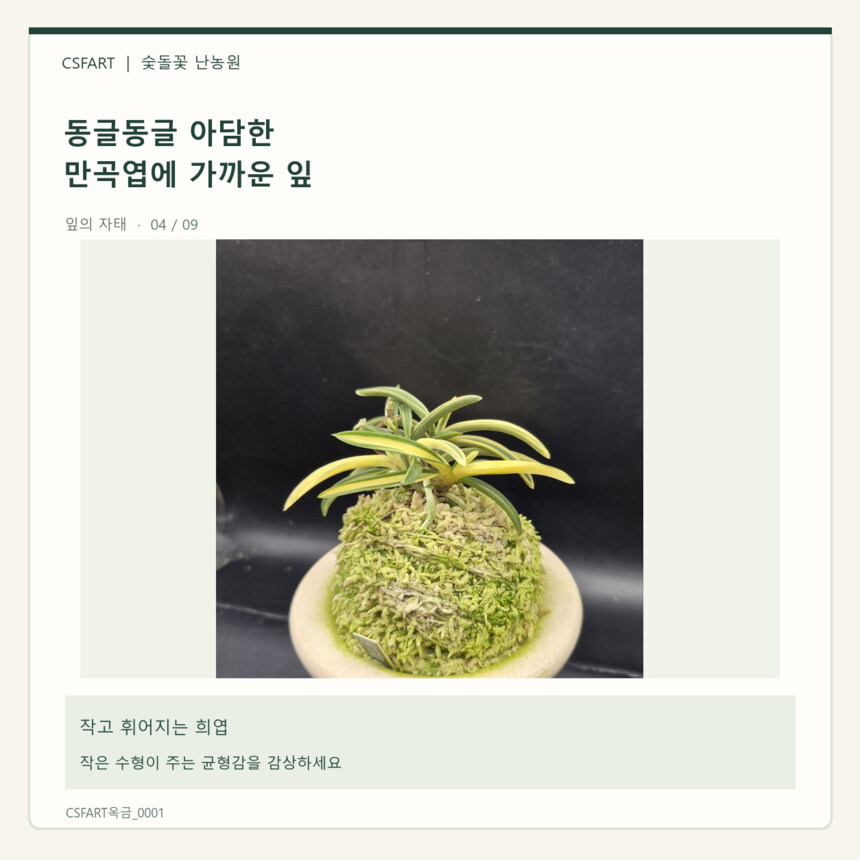
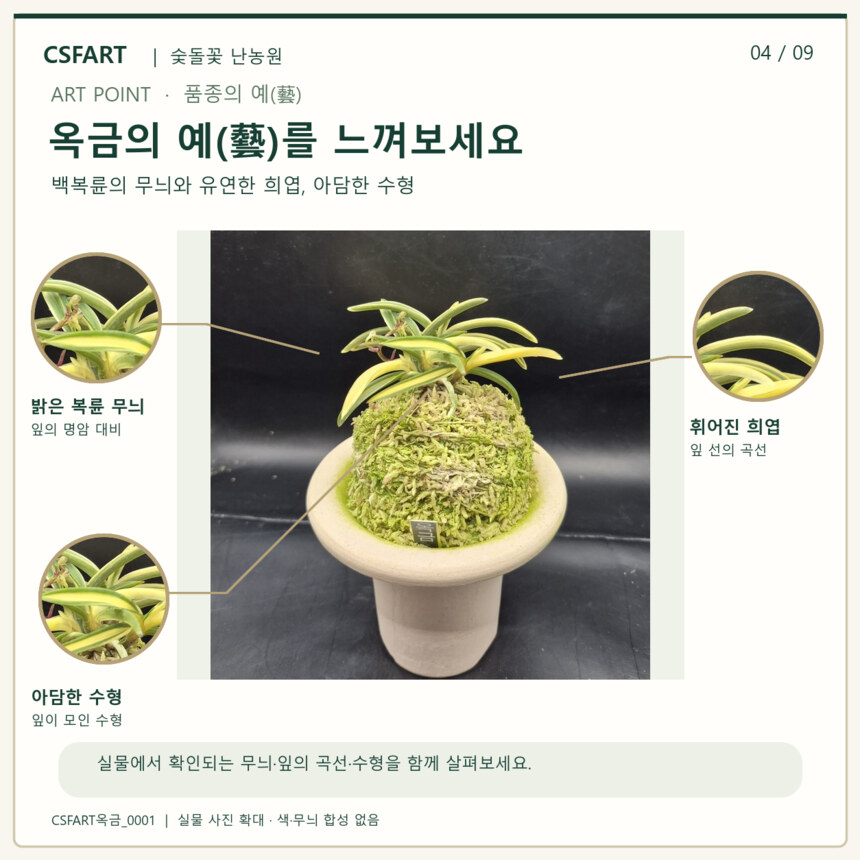
Refine Okgeum detail art and connect Naver purchase

diff --git a/product/okgeum-0001.html b/product/okgeum-0001.html
@@ -1,1 +1,1 @@
-<!doctype html><html lang="ko"><head><meta charset="utf-8"><meta name="viewport" content="width=device-width,initial-scale=1"><meta name="robots" content="noindex,nofollow,noarchive"><title>옥금(玉錦) · CSFART 상품 도감</title><link rel="stylesheet" href="../assets/site.css"><link rel="stylesheet" href="../assets/okgeum.css"></head><body><header><div class="brandbar"><a class="brand" href="../index.html"><img src="../assets/logo.png" alt="CSFART"><span><b>CSFART</b><small>숯돌꽃 난농원</small></span></a><span class="private">CSFART 상품 안내</span></div><nav aria-label="품종 분류"><a href="../category/plain.html">무지</a><a href="../category/stripe.html">호·중반</a><a href="../category/margin.html" aria-current="page">복륜</a><a href="../category/special.html">특예</a><a href="../category/pattern.html">호반</a><a href="../category/flower.html">화물</a><a href="../category/beginner.html">입문·기타란</a><a href="../category/supplies.html">자재</a></nav><div class="swipe-hint" aria-hidden="true">← 메뉴를 좌우로 밀어보세요 →</div></header><main><section class="detail ok-gallery"><div class="detail-heading"><div class="eyebrow">CSFART ORCHID COLLECTION</div><h1>옥금(玉錦) 풍란 · 부귀란</h1><p class="sub">서출도 계열 · 소형 희엽 · 백복륜</p><p class="price">350,000원</p><p class="muted">CSFART옥금_0001 · 복륜 · 실제 판매 개체</p></div><h2>실제 판매 개체 사진</h2><div class="real-first"><a href="../images/okgeum/actual_01.jpg" target="_blank" rel="noopener"><img src="../images/okgeum/actual_01.jpg" alt="옥금 실제 판매 개체 1"></a><a href="../images/okgeum/actual_02.jpg" target="_blank" rel="noopener"><img src="../images/okgeum/actual_02.jpg" alt="옥금 실제 판매 개체 2"></a><a href="../images/okgeum/actual_03.jpg" target="_blank" rel="noopener"><img src="../images/okgeum/actual_03.jpg" alt="옥금 실제 판매 개체 3"></a></div><h2>옥금 상세 설명 9장</h2><section class="guide"><figure><a href="../images/okgeum/guide_01.jpg" target="_blank" rel="noopener"><img src="../images/okgeum/guide_01.jpg" loading="lazy" alt="옥금 설명 이미지 01"></a><figcaption>설명 이미지 01/09 · 판매 개체 실물사진 활용</figcaption></figure><figure><a href="../images/okgeum/guide_02.jpg" target="_blank" rel="noopener"><img src="../images/okgeum/guide_02.jpg" loading="lazy" alt="옥금 설명 이미지 02"></a><figcaption>설명 이미지 02/09 · 판매 개체 실물사진 활용</figcaption></figure><figure class="interleave"><div class="photo-label">실제 판매 개체 사진 04</div><a href="../images/okgeum/actual_04.jpg" target="_blank" rel="noopener"><img src="../images/okgeum/actual_04.jpg" loading="lazy" alt="옥금 추가 실물 사진"></a></figure><figure><a href="../images/okgeum/guide_03.jpg" target="_blank" rel="noopener"><img src="../images/okgeum/guide_03.jpg" loading="lazy" alt="옥금 설명 이미지 03"></a><figcaption>설명 이미지 03/09 · 판매 개체 실물사진 활용</figcaption></figure><figure><a href="../images/okgeum/guide_04.jpg" target="_blank" rel="noopener"><img src="../images/okgeum/guide_04.jpg" loading="lazy" alt="옥금 설명 이미지 04"></a><figcaption>설명 이미지 04/09 · 판매 개체 실물사진 활용</figcaption></figure><figure class="interleave"><div class="photo-label">실제 판매 개체 사진 05</div><a href="../images/okgeum/actual_05.jpg" target="_blank" rel="noopener"><img src="../images/okgeum/actual_05.jpg" loading="lazy" alt="옥금 추가 실물 사진"></a></figure><figure><a href="../images/okgeum/guide_05.jpg" target="_blank" rel="noopener"><img src="../images/okgeum/guide_05.jpg" loading="lazy" alt="옥금 설명 이미지 05"></a><figcaption>설명 이미지 05/09 · 판매 개체 실물사진 활용</figcaption></figure><figure><a href="../images/okgeum/guide_06.jpg" target="_blank" rel="noopener"><img src="../images/okgeum/guide_06.jpg" loading="lazy" alt="옥금 설명 이미지 06"></a><figcaption>설명 이미지 06/09 · 판매 개체 실물사진 활용</figcaption></figure><figure class="interleave"><div class="photo-label">실제 판매 개체 사진 06</div><a href="../images/okgeum/actual_06.jpg" target="_blank" rel="noopener"><img src="../images/okgeum/actual_06.jpg" loading="lazy" alt="옥금 추가 실물 사진"></a></figure><figure><a href="../images/okgeum/guide_07.jpg" target="_blank" rel="noopener"><img src="../images/okgeum/guide_07.jpg" loading="lazy" alt="옥금 설명 이미지 07"></a><figcaption>설명 이미지 07/09 · 판매 개체 실물사진 활용</figcaption></figure><figure><a href="../images/okgeum/guide_08.jpg" target="_blank" rel="noopener"><img src="../images/okgeum/guide_08.jpg" loading="lazy" alt="옥금 설명 이미지 08"></a><figcaption>설명 이미지 08/09 · 판매 개체 실물사진 활용</figcaption></figure><figure class="interleave"><div class="photo-label">실제 판매 개체 사진 07</div><a href="../images/okgeum/actual_07.jpg" target="_blank" rel="noopener"><img src="../images/okgeum/actual_07.jpg" loading="lazy" alt="옥금 추가 실물 사진"></a></figure><figure><a href="../images/okgeum/guide_09.jpg" target="_blank" rel="noopener"><img src="../images/okgeum/guide_09.jpg" loading="lazy" alt="옥금 설명 이미지 09"></a><figcaption>설명 이미지 09/09 · 판매 개체 실물사진 활용</figcaption></figure><figure class="interleave"><div class="photo-label">추가 실제사진 08</div><a href="../images/okgeum/actual_08.jpg" target="_blank" rel="noopener"><img src="../images/okgeum/actual_08.jpg" loading="lazy" alt="옥금 추가 사진"></a></figure><figure class="interleave"><div class="photo-label">추가 실제사진 09</div><a href="../images/okgeum/actual_09.jpg" target="_blank" rel="noopener"><img src="../images/okgeum/actual_09.jpg" loading="lazy" alt="옥금 추가 사진"></a></figure></section><section class="buy"><h2>판매가 350,000원</h2><p class="muted">옥금의 스마트스토어 상품별 구매 주소가 아직 확인되지 않았습니다.</p><span class="ok-disabled" aria-disabled="true">네이버 구매 링크 확인 중</span><p class="muted">다른 상품으로 잘못 연결하지 않습니다.</p></section></section></main><footer>CSFART · 숯돌꽃 난농원 · 상품 도감</footer></body></html>
+<!doctype html><html lang="ko"><head><meta charset="utf-8"><meta name="viewport" content="width=device-width,initial-scale=1"><meta name="robots" content="noindex,nofollow,noarchive"><title>옥금(玉錦) · CSFART 상품 도감</title><link rel="stylesheet" href="../assets/site.css"><link rel="stylesheet" href="../assets/okgeum.css"></head><body><header><div class="brandbar"><a class="brand" href="../index.html"><img src="../assets/logo.png" alt="CSFART"><span><b>CSFART</b><small>숯돌꽃 난농원</small></span></a><span class="private">CSFART 상품 안내</span></div><nav aria-label="품종 분류"><a href="../category/plain.html">무지</a><a href="../category/stripe.html">호·중반</a><a href="../category/margin.html" aria-current="page">복륜</a><a href="../category/special.html">특예</a><a href="../category/pattern.html">호반</a><a href="../category/flower.html">화물</a><a href="../category/beginner.html">입문·기타란</a><a href="../category/supplies.html">자재</a></nav><div class="swipe-hint" aria-hidden="true">← 메뉴를 좌우로 밀어보세요 →</div></header><main><section class="detail ok-gallery"><div class="detail-heading"><div class="eyebrow">CSFART ORCHID COLLECTION</div><h1>옥금(玉錦) 풍란 · 부귀란</h1><p class="sub">서출도 계열 · 소형 희엽 · 백복륜</p><p class="price">350,000원</p><p class="muted">CSFART옥금_0001 · 복륜 · 실제 판매 개체</p></div><h2>실제 판매 개체 사진</h2><div class="real-first"><a href="../images/okgeum/actual_01.jpg" target="_blank" rel="noopener"><img src="../images/okgeum/actual_01.jpg" alt="옥금 실제 판매 개체 1"></a><a href="../images/okgeum/actual_02.jpg" target="_blank" rel="noopener"><img src="../images/okgeum/actual_02.jpg" alt="옥금 실제 판매 개체 2"></a><a href="../images/okgeum/actual_03.jpg" target="_blank" rel="noopener"><img src="../images/okgeum/actual_03.jpg" alt="옥금 실제 판매 개체 3"></a></div><h2>옥금 상세 설명 9장</h2><section class="guide"><figure><a href="../images/okgeum/guide_01.jpg" target="_blank" rel="noopener"><img src="../images/okgeum/guide_01.jpg" loading="lazy" alt="옥금 설명 이미지 01"></a><figcaption>설명 이미지 01/09 · 판매 개체 실물사진 활용</figcaption></figure><figure><a href="../images/okgeum/guide_02.jpg" target="_blank" rel="noopener"><img src="../images/okgeum/guide_02.jpg" loading="lazy" alt="옥금 설명 이미지 02"></a><figcaption>설명 이미지 02/09 · 판매 개체 실물사진 활용</figcaption></figure><figure class="interleave"><div class="photo-label">실제 판매 개체 사진 04</div><a href="../images/okgeum/actual_04.jpg" target="_blank" rel="noopener"><img src="../images/okgeum/actual_04.jpg" loading="lazy" alt="옥금 추가 실물 사진"></a></figure><figure><a href="../images/okgeum/guide_03.jpg" target="_blank" rel="noopener"><img src="../images/okgeum/guide_03.jpg" loading="lazy" alt="옥금 설명 이미지 03"></a><figcaption>설명 이미지 03/09 · 판매 개체 실물사진 활용</figcaption></figure><figure><a href="../images/okgeum/guide_04.jpg" target="_blank" rel="noopener"><img src="../images/okgeum/guide_04.jpg" loading="lazy" alt="옥금 품종의 예 실제 잎 확대 설명 이미지 04"></a><figcaption>설명 이미지 04/09 · 실제 잎 확대와 품종의 예(藝)</figcaption></figure><figure class="interleave"><div class="photo-label">실제 판매 개체 사진 05</div><a href="../images/okgeum/actual_05.jpg" target="_blank" rel="noopener"><img src="../images/okgeum/actual_05.jpg" loading="lazy" alt="옥금 추가 실물 사진"></a></figure><figure><a href="../images/okgeum/guide_05.jpg" target="_blank" rel="noopener"><img src="../images/okgeum/guide_05.jpg" loading="lazy" alt="옥금 설명 이미지 05"></a><figcaption>설명 이미지 05/09 · 판매 개체 실물사진 활용</figcaption></figure><figure><a href="../images/okgeum/guide_06.jpg" target="_blank" rel="noopener"><img src="../images/okgeum/guide_06.jpg" loading="lazy" alt="옥금 설명 이미지 06"></a><figcaption>설명 이미지 06/09 · 판매 개체 실물사진 활용</figcaption></figure><figure class="interleave"><div class="photo-label">실제 판매 개체 사진 06</div><a href="../images/okgeum/actual_06.jpg" target="_blank" rel="noopener"><img src="../images/okgeum/actual_06.jpg" loading="lazy" alt="옥금 추가 실물 사진"></a></figure><figure><a href="../images/okgeum/guide_07.jpg" target="_blank" rel="noopener"><img src="../images/okgeum/guide_07.jpg" loading="lazy" alt="옥금 설명 이미지 07"></a><figcaption>설명 이미지 07/09 · 판매 개체 실물사진 활용</figcaption></figure><figure><a href="../images/okgeum/guide_08.jpg" target="_blank" rel="noopener"><img src="../images/okgeum/guide_08.jpg" loading="lazy" alt="옥금 설명 이미지 08"></a><figcaption>설명 이미지 08/09 · 판매 개체 실물사진 활용</figcaption></figure><figure class="interleave"><div class="photo-label">실제 판매 개체 사진 07</div><a href="../images/okgeum/actual_07.jpg" target="_blank" rel="noopener"><img src="../images/okgeum/actual_07.jpg" loading="lazy" alt="옥금 추가 실물 사진"></a></figure><figure><a href="../images/okgeum/guide_09.jpg" target="_blank" rel="noopener"><img src="../images/okgeum/guide_09.jpg" loading="lazy" alt="옥금 실물사진과 CSFART 연출 모델 브랜드 엔딩 09"></a><figcaption>설명 이미지 09/09 · 실제 개체 사진 + 브랜드 연출 모델</figcaption></figure><figure class="interleave"><div class="photo-label">추가 실제사진 08</div><a href="../images/okgeum/actual_08.jpg" target="_blank" rel="noopener"><img src="../images/okgeum/actual_08.jpg" loading="lazy" alt="옥금 추가 사진"></a></figure><figure class="interleave"><div class="photo-label">추가 실제사진 09</div><a href="../images/okgeum/actual_09.jpg" target="_blank" rel="noopener"><img src="../images/okgeum/actual_09.jpg" loading="lazy" alt="옥금 추가 사진"></a></figure></section><section class="buy"><h2>판매가 350,000원</h2><p class="muted">옥금은 네이버 스마트스토어에서 구매할 수 있습니다.</p><a href="https://smartstore.naver.com/csfart/products/13816026552" target="_blank" rel="noopener noreferrer">네이버에서 구매하기 ↗</a><p class="muted">최신 판매가격·재고·배송 조건은 네이버 스마트스토어에서 확인하세요.</p></section></section></main><footer>CSFART · 숯돌꽃 난농원 · 상품 도감</footer></body></html>
